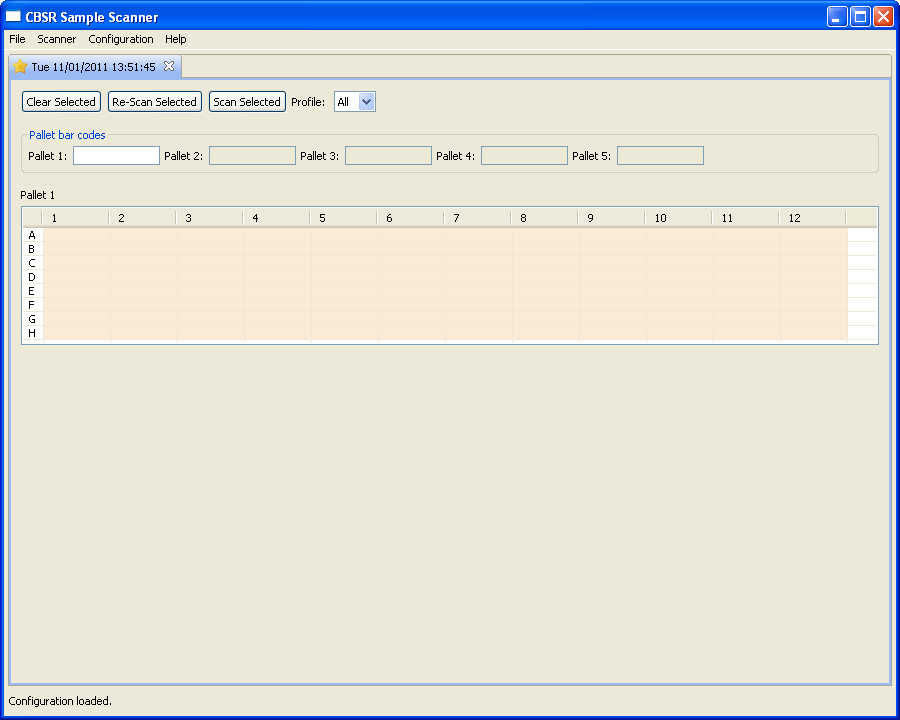
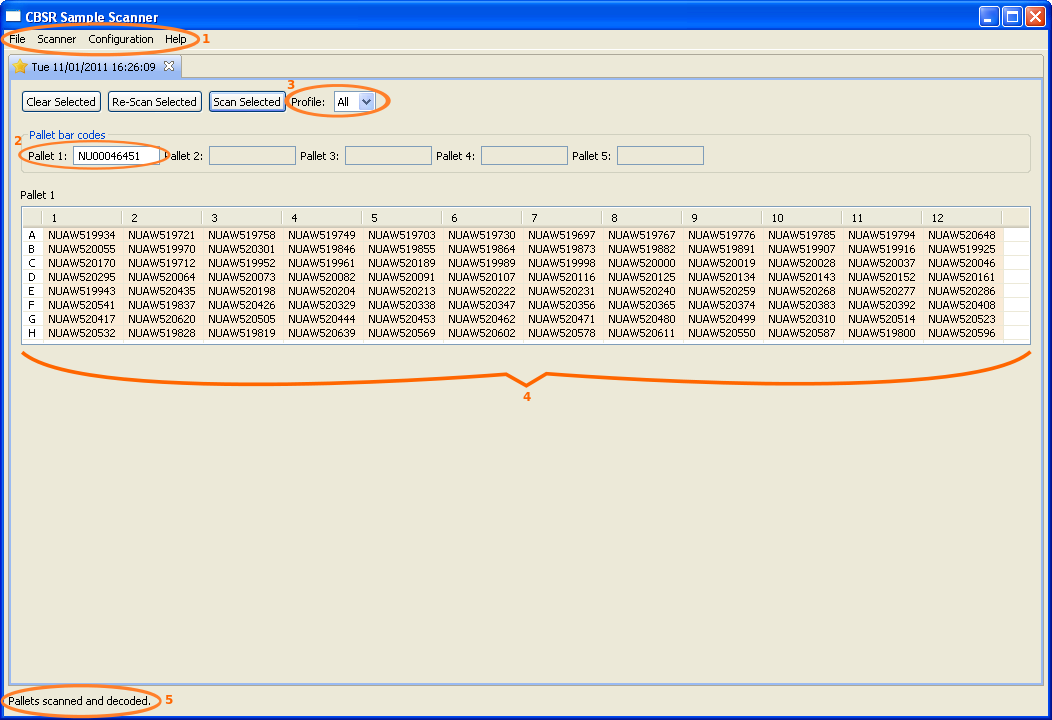
working on user guide

diff --git a/docs/userGuide/overview.tex b/docs/userGuide/overview.tex
@@ -1,55 +1,96 @@
 \chapter{Overview}
 The CBSR Sample Scanner is a Microsoft Windows application that decodes
-DataMatrix encoded tubes to be decoded. It communicates with a scanner that
+DataMatrix encoded tubes. It communicates with a scanner that
 uses either TWAIN\footnote{\url{http://en.wikipedia.org/wiki/TWAIN}} or
 WIA\footnote{\url{http://en.wikipedia.org/wiki/Windows_Image_Acquisition}}
 drivers. Most scanners available on the market provide these
 drivers.
 
+Up to 5 pallets can be scanned and decoded at a time. The product IDs of
+decoded pallets can be saved to individual files that specify the pallet
+product ID and the date and time the scan was performed at. Files are saved in
+Comma Separated Value (CSV) format which is a plain text format or can be
+imported in to Microsoft Excel.
+
 Figure \ref{fig:main_window} shows the application's main window and highlights
-some of its components.
+some of its components. This figure shows the application when it is configured
+to scan a single pallet.
 \begin{figure}[H]
   \centering
-  \scalebox{0.4}
+  \scalebox{0.35}
 	   { \includegraphics*{screenshots/overview/main_window} }
 	   \caption{The CBSR Sample Scanner's main window.}
 	   \label{fig:main_window}
 \end{figure}
-\begin{description}
-\item[Window Title Bar] The title bar shows the connection information when
-  connected to a BioBank2 server. The domain name or IP address of the server
-  is displayed and in square brackets the user name that was used to log in.
-\item[Main Menu] The main menu allows the user access to the different
+\begin{enumerate}
+\item The \emph{Main Menu} allows the user access to the different
   functions provided by the software (see section \ref{sec:main_menu} for a
   description of the menu items).
-\item[Toolbar Icons] The icon buttons in the toolbar allow quick access to
-  often used menu items. Using the mouse, the user can hover over the icon
-  button and after 2 seconds a tooltip is displayed describing what the
-  button is for and if applicable the keyboard shortcut. Note that there is
-  an icon toolbar under the Main Menu and another grouped with the tree view.
-\item[Tree View] The tree view shown here is for the \emph{Administration
-  View}. The application uses tree views in the \emph{Administration View}
-  and \emph{Processing View} (see section \ref{sec:application_views}). Tree
-  view shows nodes in a hierarchical structure. If a node has children, a
-  \emph{plus} symbol is displayed next to the node. When the symbol is
-  pressed the node will expand to show its' child nodes.  Sometimes,
-  operations can be performed on certain nodes in the tree by right clicking
-  with the mouse on the node.
-\item[Status Bar] The status bar is used to display the current state of the
+\item The product barcode of the pallet to be scanned. This product ID is
+  used in the output file.
+\item The \emp{Decoding Profile} to be used. Scanning profiles are described in
+  detail in section \ref{sec:decoding_profiles}.
+\item This part of the window shows the decoded product IDs of the tubes
+  that were decoded for each pallet.
+\item The status bar is used to display the current state of the
   application. It is usually updated after the user has completed a task.
-\end{description}
+\end{enumerate}
 
 \section{Main Menu}
 \label{sec:main_menu}
+\subsection{File Menu}
+The items under the \emph{File Menu} allow the user to create new scan tabs
+and save individual decoded pallets to a file.
+\begin{figure}[H]
+  \centering
+  \scalebox{0.5}
+	   { \includegraphics*{screenshots/overview/file_menu} }
+	   \caption{File menu.}
+	   \label{fig:file_menu}
+\end{figure}
+\begin{description}
+\item[New Scan] Use this menu item to clear the contents of the current
+  scanning tabs.
+\item[New Tab] Creates a new scanning tab. Multiple scanning tabs can be used
+  to keep decode information easily accessible.
+\item[Save All] Saves to file all scanned pallets on the current tab.
+\item[Save] Used to save to file one of the scanned pallets on the current tab.
+\item[Quit] Used to quit the application.
+\end{description}
 
-\subsection{}
+\subsection{Scanner Menu}
+Allows the user to save scanned images to file.
+\begin{figure}[H]
+  \centering
+  \scalebox{0.5}
+	   { \includegraphics*{screenshots/overview/scanner_menu} }
+	   \caption{Scanner menu.}
+	   \label{fig:scanner_menu}
+\end{figure}
+\begin{description}
+\item[Scan Image To File] Scans the entire flatbed and saves it to a file in MS
+  Windows BMP format.
+\item[Scan Pallet to File] Scans the image from a pallet to a file.
+\end{description}
+
 \subsection{Configuration Menu}
 This menu only contains the preferences item. See Chapter
 \ref{chap:configuration} for more details.
 \begin{figure}[H]
   \centering
   \scalebox{0.5}
-	   { \includegraphics*{screenshots/overview/main_menu_configuration} }
+	   { \includegraphics*{screenshots/overview/configuration_menu} }
 	   \caption{Configuration menu.}
-	   \label{fig:main_menu_configuration}
+	   \label{fig:configuration_menu}
+\end{figure}
+
+\subsection{Help Menu}
+The only item under this menu is the \emph{About} item. When selected it
+displays a dialog containing the application's version number.
+\begin{figure}[H]
+  \centering
+  \scalebox{0.5}
+	   { \includegraphics*{screenshots/overview/about_dialog} }
+	   \caption{About dialog.}
+	   \label{fig:about_dialog}
 \end{figure}

diff --git a/docs/userGuide/configuration.tex b/docs/userGuide/configuration.tex
@@ -90,6 +90,7 @@ DataMatrix 2D barcodes.
 \end{description}
 
 \subsection{Decoding Profiles}
+\label{sec:decoding_profiles}
 On the preferences dialog window, if there is a "plus" symbol next to the
 \emph{Scanning and Decoding} node, press it to expand the sub tree.
 
